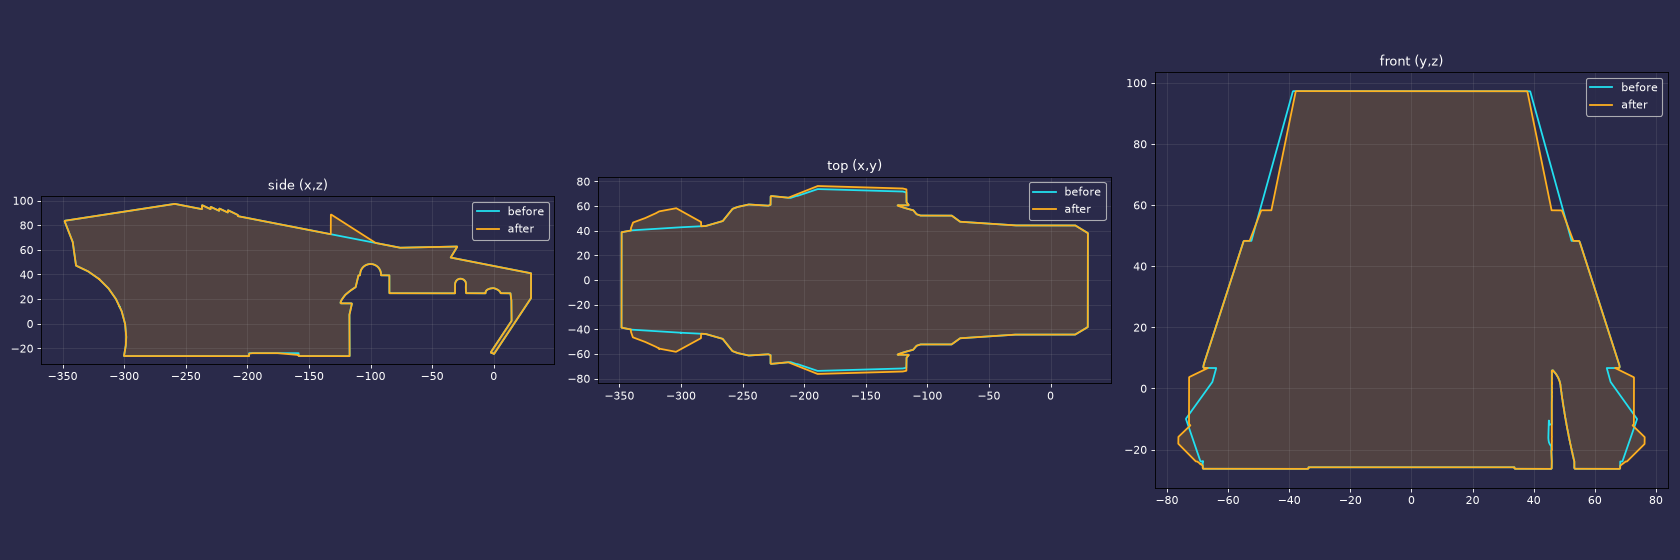
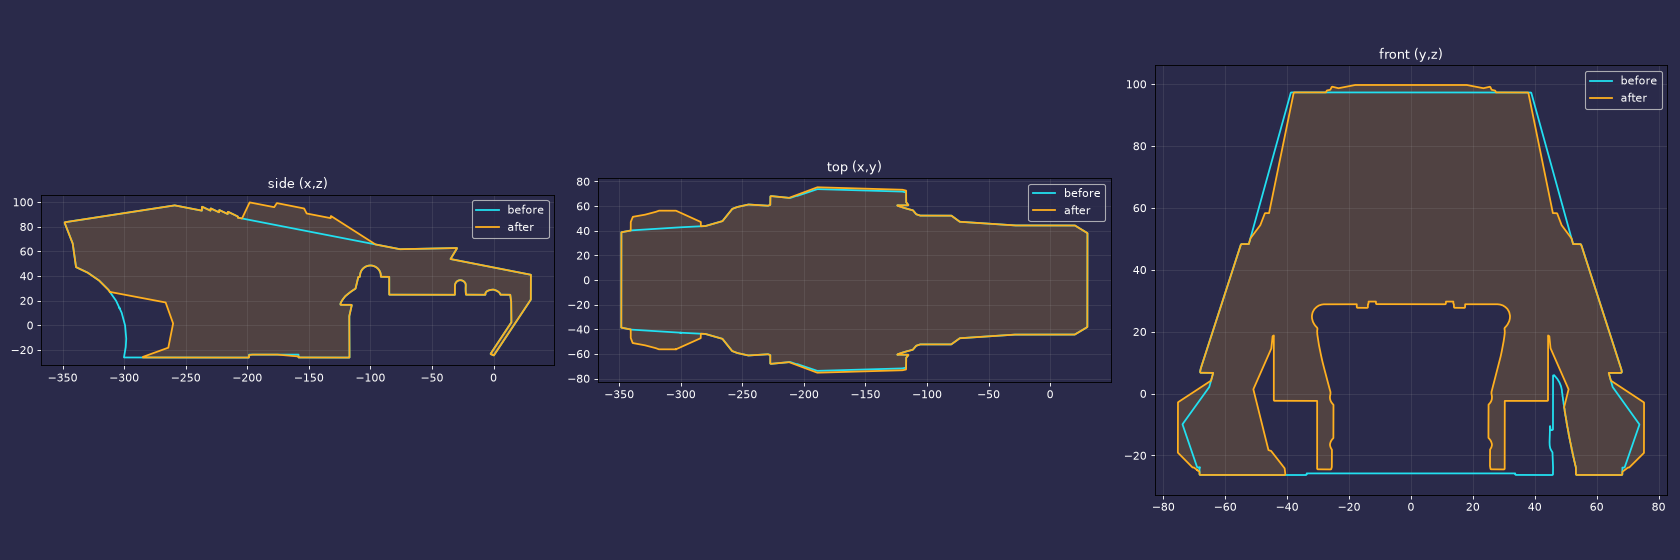
WS-03 skin: single sill step, plain rear fender, one straight trim over the rear arm travel envelope, covered canopy over the hourglass cut; 51 tests pass, 1 deg swing clear

diff --git a/ws02/body3_build.py b/ws02/body3_build.py
@@ -48,8 +48,8 @@ def prism_yz(pts, x0, x1):
     return MB.man(m)
 
 
-SILLS = [dict(b=8.0, z0=-26.0, z1=-8.0), dict(b=4.5, z0=-16.0, z1=8.0)]   # stepped sills: out by b, 45-degree chamfer at the foot, vertical face, angled back into the flank at z1
-FENDER = [(-284.0, 47.0), (-304.0, 58.0), (-346.0, 50.0)]               # rear fender flare: (x, half width) stations; hulled, so plan edges are straight diagonals
+SILLS = [dict(b=7.0, z0=-26.0, z1=4.0)]   # one sill step: 45-degree chamfer at the foot, vertical face, angled back into the flank at z1
+FENDER = [(-284.0, 47.0), (-304.0, 56.0), (-346.0, 56.0)]               # rear fender flare: (x, half width) stations; hulled, so plan edges are straight diagonals
 FENDER_Z = (-20.0, 34.0, 58.0, 9.0)                                      # foot z, start of the top chamfer, top z, chamfer run in y
 
 
@@ -175,8 +175,8 @@ def details(body):
     p0, p1 = np.array([bx, bz]) + dvec * 3.0, np.array([cx_, cz_]) - dvec * 3.0
     quad = [tuple(p0 + nvec * 3.0), tuple(p1 + nvec * 3.0), tuple(p1 - nvec * 3.0), tuple(p0 - nvec * 3.0)]
     body = body - (MB.prism_xz(quad, -31.0, 31.0) - solid(0.8))
-    body = body + windscreen()
-    body = body - canopy_cut()
+    body = body + windscreen() + canopy_cover()[0]
+    body = body - canopy_cover()[1] - canopy_cut()
     # roof gills over the motor: slanted slats, openings facing the rear; the slats run across y so both sides are mirror images
     for s_ in (1, -1):
         rect = [(-237.0, s_ * 5.0), (-205.0, s_ * 5.0), (-205.0, s_ * 37.0), (-237.0, s_ * 37.0)]
@@ -192,7 +192,11 @@ def details(body):
     _tl = __import__('parts.w3_tail', fromlist=['screw_holes'])
     body = body + _tl.screw_bosses() - _tl.screw_holes()                       # wing feet screw onto the hood from inside, so the wing flips up with the skin
     body = body - __import__('parts.w3_frame', fromlist=['relief']).relief()
-    body = body - __import__('w3_swing').rear_travel_channels()                    # wheel arch: the rear tyre and swing arm over their full travel (25 mm up, 20 mm down)
+    _sw = __import__('w3_swing')
+    env = _sw.rear_travel_channels()
+    hp = MultiPoint([(float(x), float(z)) for x, y, z in MB.to_trimesh(env).vertices if abs(y) > 40.0]).convex_hull.simplify(1.0)
+    body = body - MB.prism_xz(list(hp.exterior.coords)[:-1], 30.0, 100.0) - MB.prism_xz(list(hp.exterior.coords)[:-1], -100.0, -30.0)   # one straight-edged trim over the full wheel/arm travel envelope
+    body = body - env                    # wheel arch: the rear tyre and swing arm over their full travel (25 mm up, 20 mm down)
     body = body - __import__('w3_swing').swing_channels()                       # open-ended channels: the frame tubes slide out as the skin swings up on the nose hinge          # slots where frame tubes pass through the skin
     return body
 
@@ -217,6 +221,21 @@ def canopy_cut():
         Q = [(x, y, top_z(x, 0.0) + 0.5) for x, y in list(grown.exterior.coords)[:-1]]
         cut = cut + Manifold.hull_points(np.array(P + Q, float))
     return cut
+
+COVER_H, COVER_IN = 18.0, 9.0          # canopy cover: height over the roof, and how far the top is drawn in (45-degree-ish leaning sides)
+
+
+def canopy_cover():
+    """Covered canopy: a convex, angular hull over the hourglass opening (base ring outside the 45-degree rim, top drawn in), returned as
+    (outer solid, cavity).  The cavity opens down into the cockpit cut, so the cover is a 2.4 mm roof-and-wall shell."""
+    base = MultiPoint(CANOPY_HALF + [(x, -y) for x, y in CANOPY_HALF]).convex_hull
+    def hull(grow, dz):
+        b = base.buffer(RIM + 3.4 + grow, join_style=2)
+        t = base.buffer(RIM + 3.4 + grow - COVER_IN, join_style=2)
+        P = [(x, y, top_z(x, 0.0) - 3.0 - 6.0 * (dz > 0)) for x, y in list(b.exterior.coords)[:-1]]
+        Q = [(x, y, top_z(x, 0.0) + COVER_H - dz) for x, y in list(t.exterior.coords)[:-1]]
+        return Manifold.hull_points(np.array(P + Q, float))
+    return hull(0.0, 0.0), hull(-WALL, WALL)
 
 
 def windscreen():
